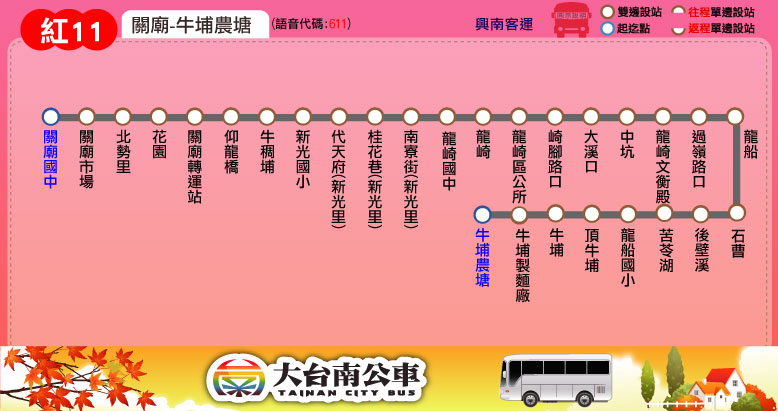
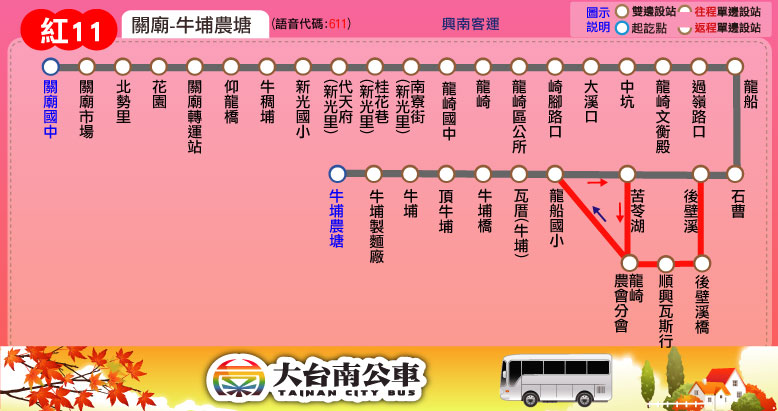
git commit -m "新增站位：紅11(增「後壁溪橋」、「順興瓦斯行」、「龍崎農會分會」、「瓦厝(牛埔)」、「牛埔橋」)"

Changed region(s): [[0.0308, 0.0, 1.0, 0.8467]]

diff --git a/route/fare_and_time/red_11.js b/route/fare_and_time/red_11.js
@@ -5,8 +5,8 @@ red_11_interval_stop = [
 ["龍崎國中","龍崎","龍崎區公所","崎腳路口","大溪口"], // 龍崎
 ["中坑","龍崎文衡殿"], // 中坑
 ["過嶺路口","龍船"], // 龍船
-["石曹","後壁溪","苦苓湖"], // 苦苓湖
-["龍船國小","頂牛埔","牛埔","牛埔製麵廠","牛埔農塘"] // 牛埔農塘
+["石曹","後壁溪","後壁溪橋","順興瓦斯行","龍崎農會分會","苦苓湖"], // 苦苓湖
+["龍船國小","瓦厝(牛埔)","牛埔橋","頂牛埔","牛埔","牛埔製麵廠","牛埔農塘"] // 牛埔農塘
 ];
 red_11_fare = [
 [26],
@@ -23,5 +23,5 @@ red_11_fare = [
 red_11_main_stop_name = ["關廟國中","關廟<br />轉運站","代天府<br />(新光里)","龍崎","苦苓湖","牛埔農塘"];
 red_11_main_stop_time_consume = [0, 5, 13, 20, 30, 35];
 red_11_important_stop = [0, 1, 3, 5]; // 關廟國中, 關廟轉運站, 龍崎, 牛埔農塘
-red_11_time_go = [["07:05"],["08:25"],["09:45"],["11:05"],["13:00"],["14:20"],["15:30"]];
-red_11_time_return = [["07:50"],["09:10"],["10:30"],["11:50"],["13:45"],["14:55"],["16:15"]];
+red_11_time_go = [["07:05",['繞']],["08:25"],["09:45"],["11:05"],["13:00"],["14:20"],["15:30",['繞']]];
+red_11_time_return = [["07:50",['繞']],["09:10"],["10:30"],["11:50"],["13:45"],["14:55"],["16:15",['繞']]];

diff --git a/red/red_11.html b/red/red_11.html
@@ -20,7 +20,7 @@
 	block_route_map(null);
 	block_route_info(route_interval,'興南客運','','里程計費','http://www.2384.com.tw/ebus/jsp/ajaxBus.jsp?pathId=1611&locale=zh_TW');
 	block_fare(0, null);
-	block_time_schedule('關廟國中','牛埔農塘','');
+	block_time_schedule('關廟國中','牛埔農塘','「<span style="color: blue;">繞</span>」表示繞駛龍崎農會分會，且該班次「苦苓湖」為單邊設站（往關廟）');
 	block_transfer(transfer_guanmiao);
 	block_copyright();
 </script>
